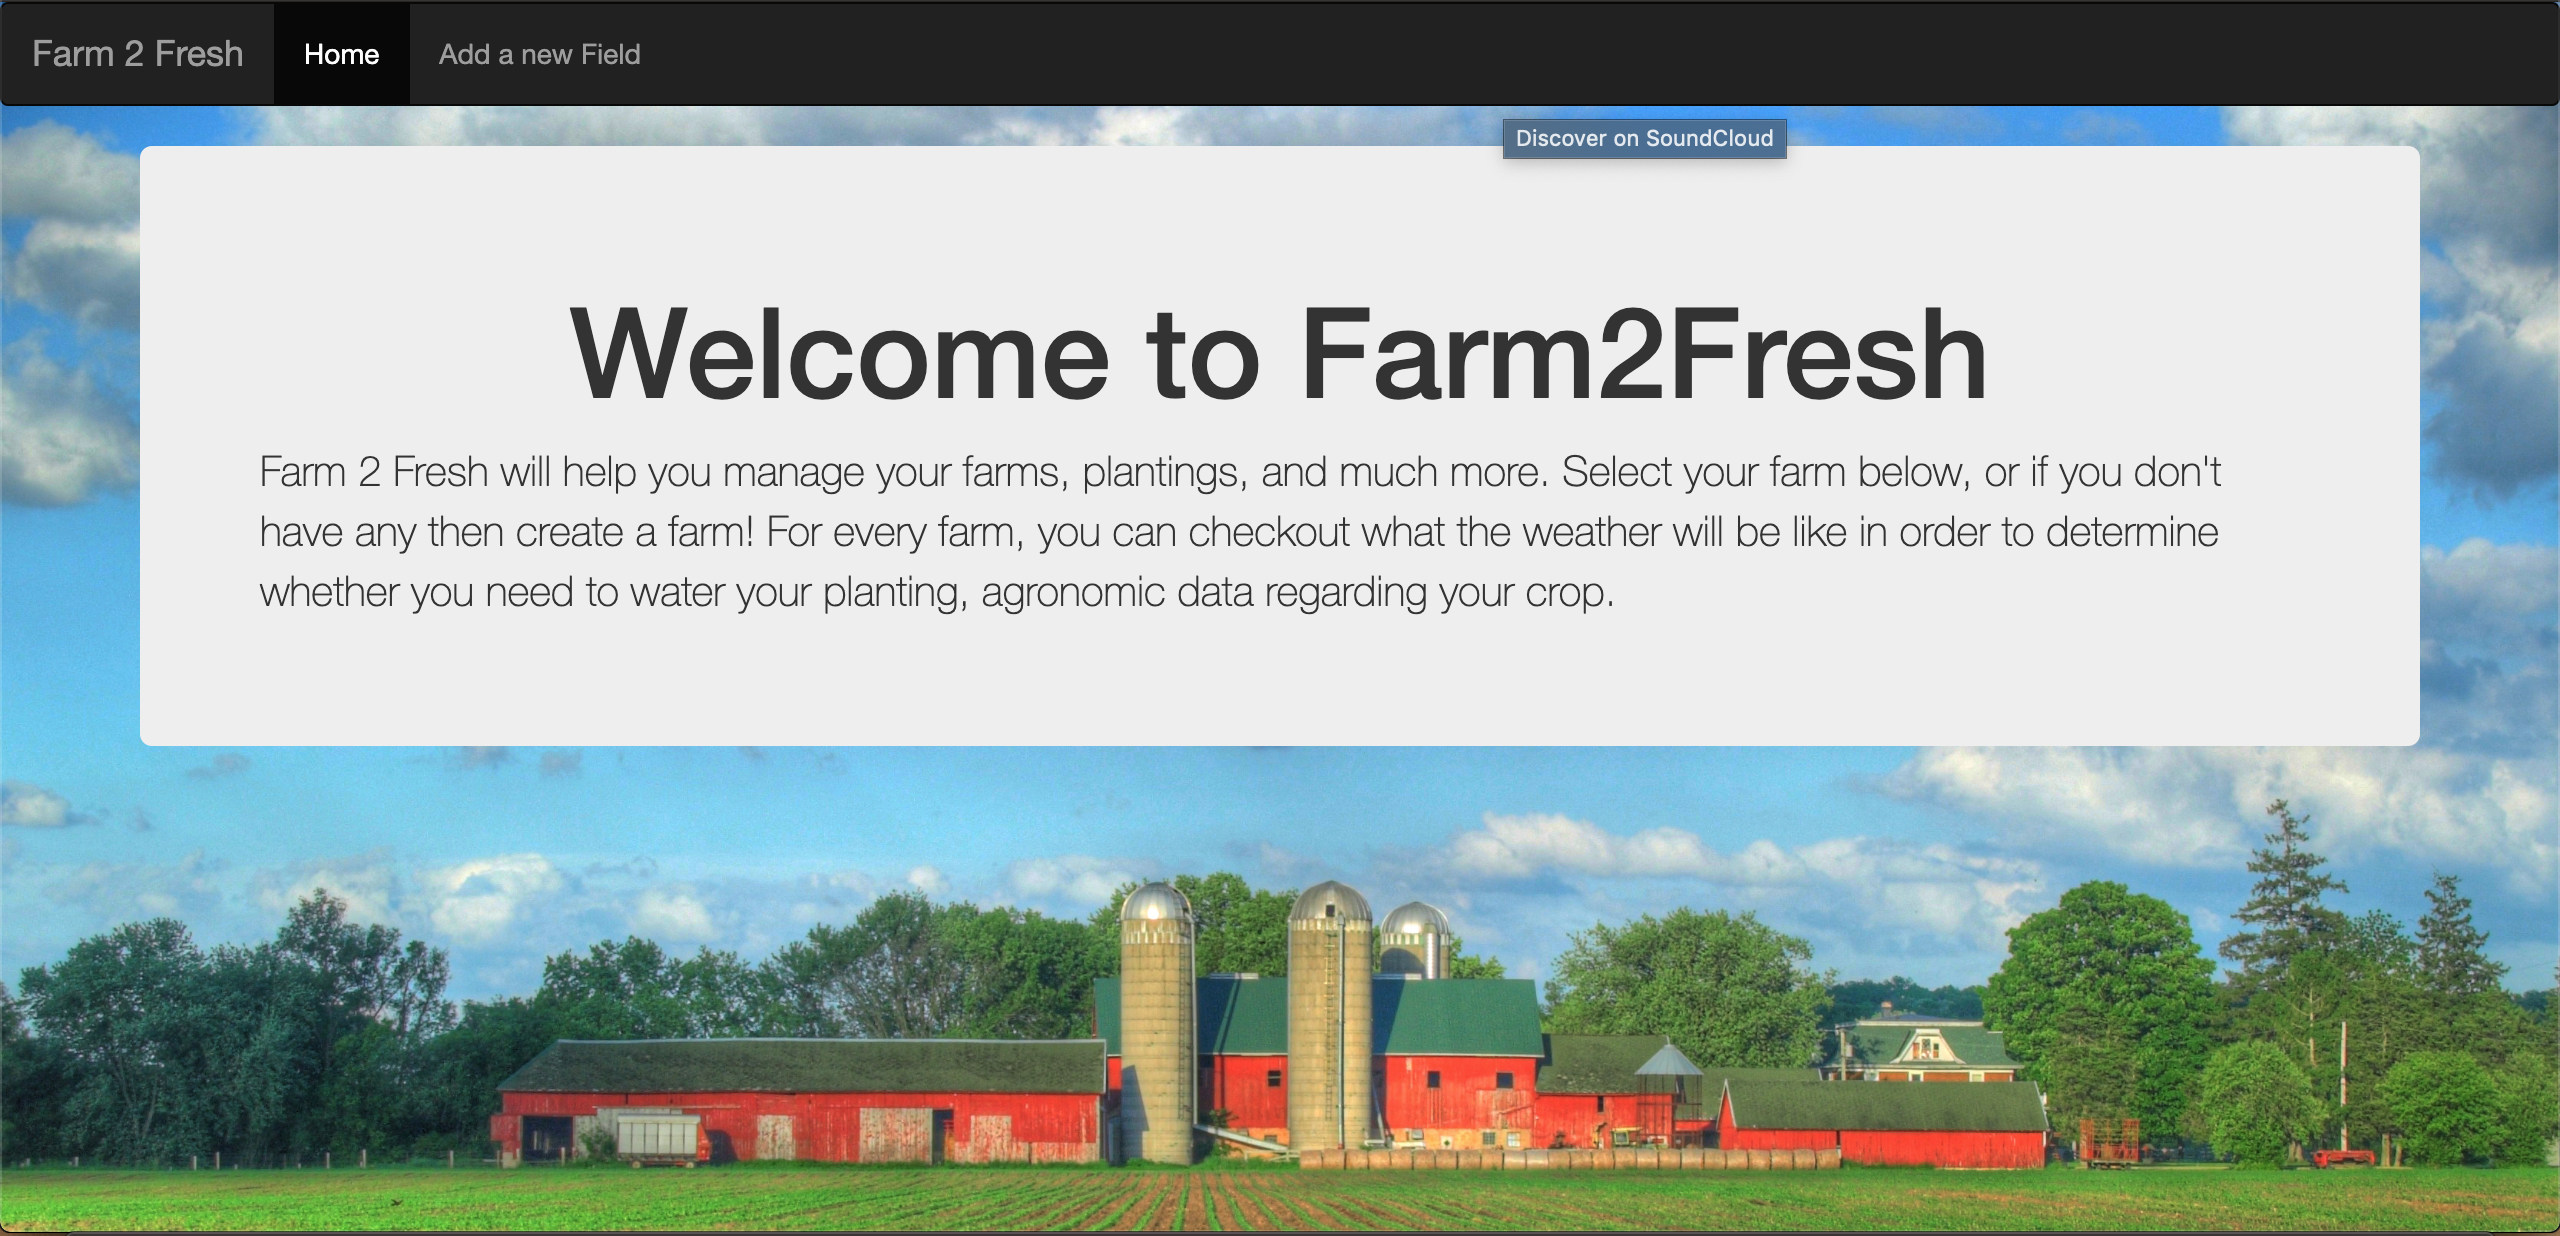
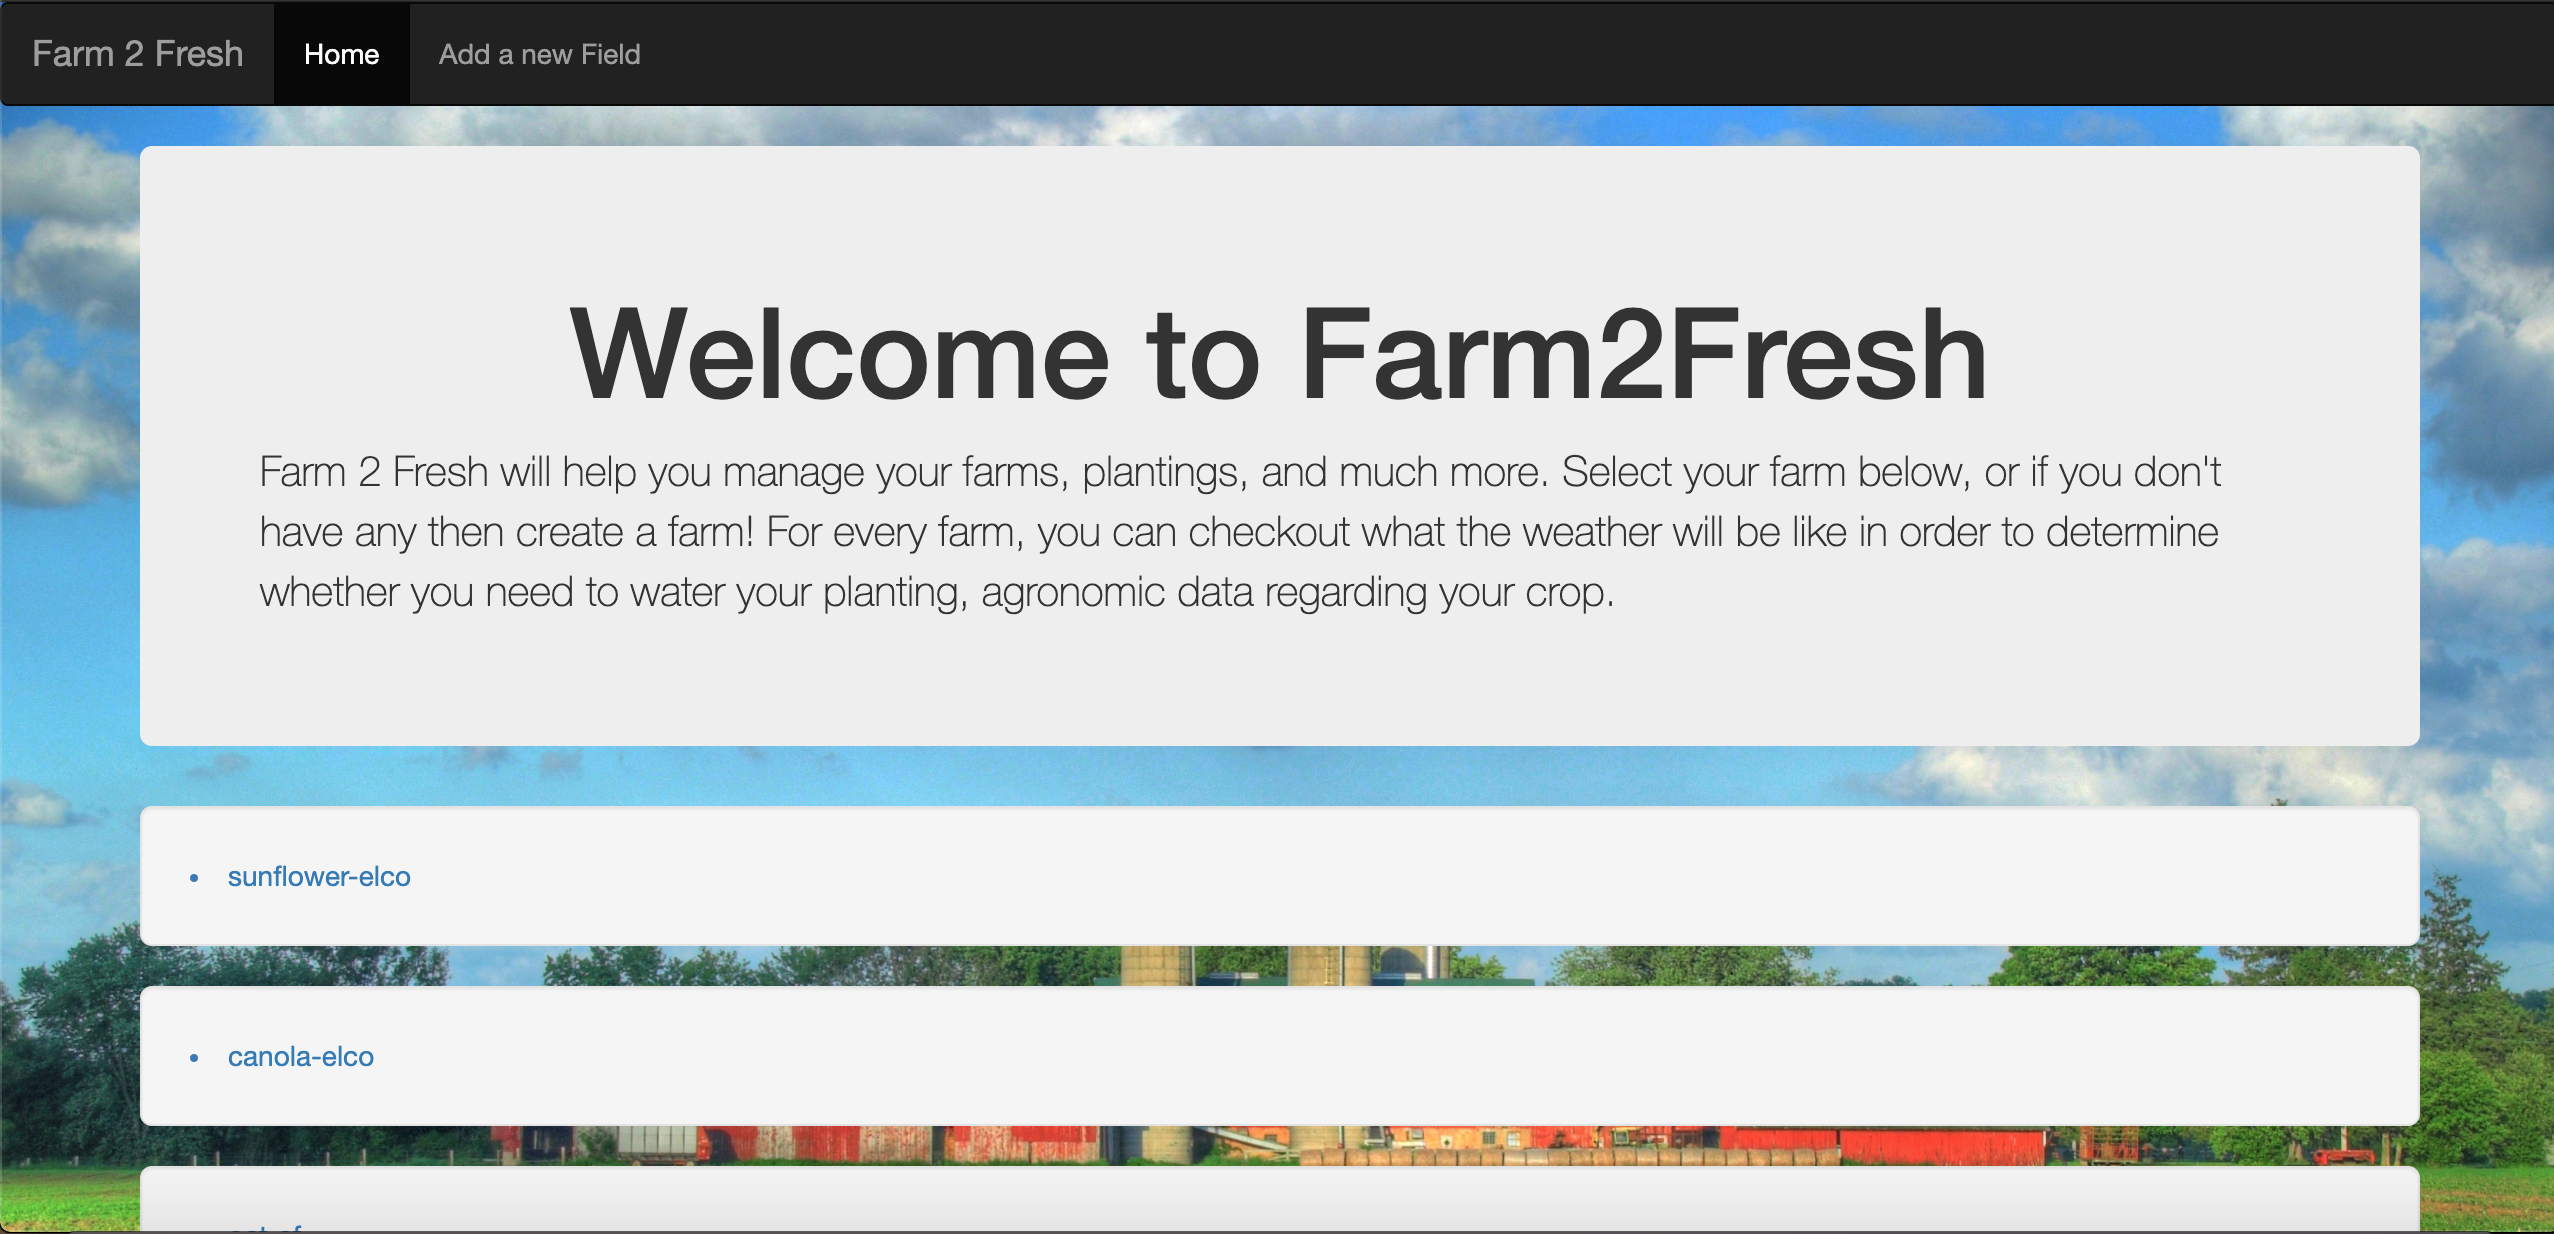
writeup updated

diff --git a/field.html b/field.html
@@ -29,7 +29,6 @@
 </head>
 
 <body>
-    <h1 id='curr-field'>Hello</h1>
     <br>
     <br>
     <p>These are the results of your area's Rainfall/Land last week, calculated by PPET. A rise in PPET indicates increase in water for your area. If near the threshold, then irrigation may not be necessary for that week.</p>

diff --git a/server.js b/server.js
@@ -1,4 +1,4 @@
-const TOKEN = 'UnyM4YZXkTaPSmhitFiNqBJl8Wpk'
+const TOKEN = 'GXpi94sEdyPZ7AAK8ivEvyrKWXCM'
 const HOST = 'https://api.awhere.com'
 
 // init server framework

diff --git a/milestone4/milestone4.md b/milestone4/milestone4.md
@@ -11,7 +11,19 @@ COGS 121 Project
 ### Farm2Fresh
 --
 
-The screenshots of our UI have improved in 
+The screenshots of our UI have improved in a few noticeable ways.
+We have updated the UI of our homepage. We removed the old 4Square 
+logo and added the app name in the navbar. There is also an a quick
+paragraph on the homepage about what Farm2Fresh offers followed by 
+the users farms underneath it. There are a few farms that are shown 
+underneath this and they are clickable links that take you to that 
+specific crop. When you click on one of them, it takes you to a page 
+about that crop that shows weather information. In the form of a graph 
+we have rainfall data.
+
+The add field page has also changed in its styling. The field for 
+adding a new field is now in its own box and is shown in the middle
+of the page for better style
 
 
 ### UI Webpages
@@ -23,10 +35,8 @@ The screenshots of our UI have improved in
 ### Adding a Field
 ![addField.jpeg](addField.png)
 
-### Adding a Crop
+### Your Crop
 ![addCrop.jpeg](addCrop.png)
 
-### Field Options
-![field.jpeg](field.png)
 
 
